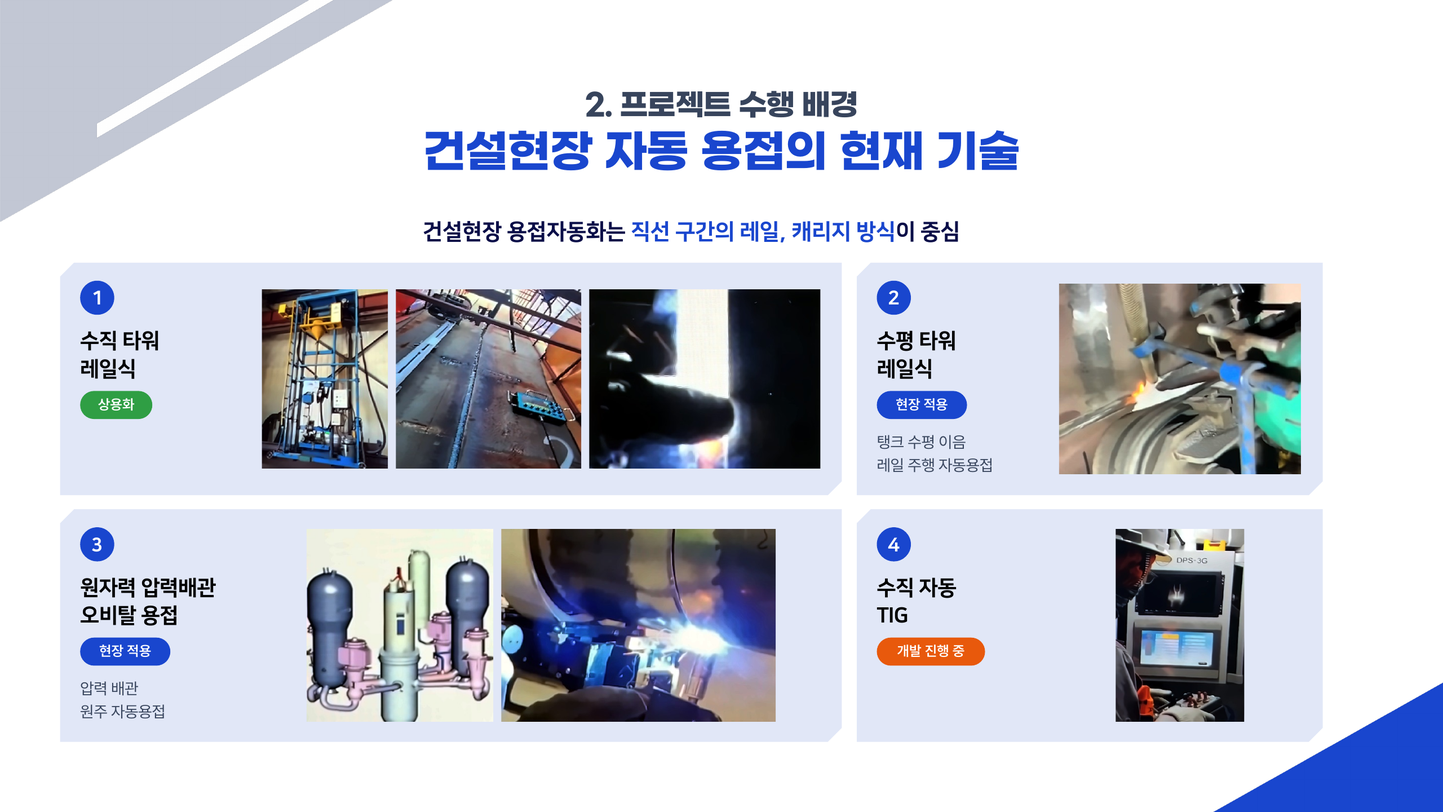
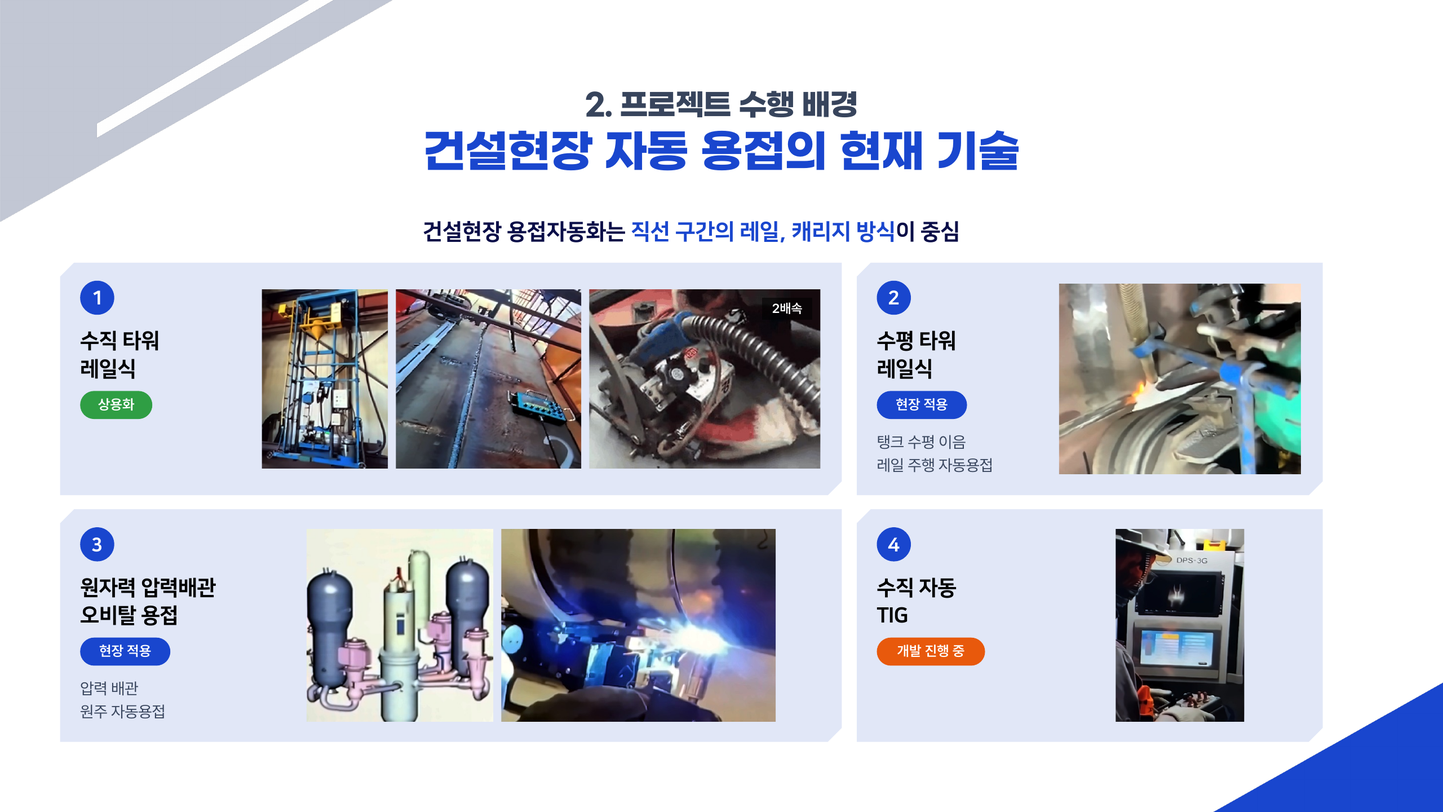
수행 배경 6, 8, 9장 사진 자리에 원본 영상(2배속 GIF) 올림
손태산 프로님 자료의 원본 영상 4개: 수직 타워 레일식 용접, 다층 용접 설명, 기존 VLA 연구, 건설현장 고소 용접.
PPT의 GIF 자리를 그대로 웹 겹쳐 올리기 위치로 씀.

Changed region(s): [[0.4062, 0.3438, 0.5938, 0.5938]]

diff --git a/index.html b/index.html
@@ -49,58 +49,75 @@
 </head>
 <body>
 <main class="stage" id="stage">
-  <img class="slide" src="deck/final/01.png?v=11131114" alt="2026 IRC 지능로봇대회 매니퓰레이터 종목. 거친 현장의 혁신. 숙련 용접사 패턴을 모사한 강구조물 용접 로봇. 팀 뉴트로 아크: 손태산, 김광빈, 김동희, 왕혜영">
-  <img class="slide" src="deck/final/02.png?v=11131114" alt="목차" loading="lazy">
-  <img class="slide" src="deck/final/03.png?v=11131114" alt="1. 프로젝트 개요. 숙련 용접사 패턴을 모사한 강구조물 용접 로봇. 왼쪽은 코너 시편의 용접선을 초록 레이저로 따라가는 로봇 사진" loading="lazy">
-  <img class="slide" src="deck/final/04.png?v=11131114" alt="2. 프로젝트 수행 배경: 정밀 특수공정 용접의 품질, 인력, 안전 위기. WPS 필수 제어 변수 20개 이상, 숙련 의존 정밀공정, 연령별 인력(20대 11만, 30대 27만, 40대 45만, 50대 65만, 60대 이상 46만), 용접사 평균 55세, 시공 부실과 안전 사고" loading="lazy">
-  <img class="slide" src="deck/final/05.png?v=11131114" alt="2. 프로젝트 수행 배경: 강재 적용 확대와 현장 용접 경쟁력. 고부가가치 강재 개발, 현장 용접과 시공성 확보, 적용 경쟁력 향상, 강재 적용시장 확대. 강교량 강주탑 단면도와 BOX, 강구조 건축 벽체 현장 용접 사진" loading="lazy">
-  <img class="slide" src="deck/final/06.png?v=11131114" alt="2. 프로젝트 수행 배경: 건설현장 자동 용접의 현재 기술. 수직 타워 레일식(상용화), 수평 타워 레일식(현장 적용), 원자력 압력배관 오비탈 용접(현장 적용), 수직 자동 TIG(개발 진행 중)" loading="lazy">
-  <img class="slide" src="deck/final/07.png?v=11131114" alt="2. 프로젝트 수행 배경: 센서 기반 적응형(Adaptive) 용접으로 발전. 레이저 센싱, 형상 측정, 경로 보정, 정밀 용접. 협동로봇과 레이저 센서, 레일식 수직 자동용접 현장 사진" loading="lazy">
-  <img class="slide" src="deck/final/08.png?v=11131114" alt="2. 프로젝트 수행 배경: 왜 Physical AI인가. 센서는 정밀하게 측정하고 Physical AI는 복합 상황을 판단. 한계는 두꺼운 다층 용접의 다음 패스 판단, 전체 상황 인식과 용접 구역 판단" loading="lazy">
-  <img class="slide" src="deck/final/09.png?v=11131114" alt="2. 프로젝트 수행 배경: Physical AI, 이제 건설현장으로. 기존 VLA 연구는 정형화된 실내 환경, 우리가 도전하는 건설현장은 비정형 강구조물 용접. 열악한 환경, 기술개발의 사각지대" loading="lazy">
-  <img class="slide" src="deck/final/10.png?v=11131114" alt="2. 프로젝트 수행 배경: 숙련 기술의 단절과 기존 자동용접의 한계. 실내 철골 제작공장 자동용접 사진, 강교량 야외 건설현장 사진" loading="lazy">
-  <img class="slide" src="deck/final/11.png?v=11131114" alt="3. 프로젝트 수행 필요성: 숙련 기술의 계승과 비정형 환경 대응을 위한 자율용접 기술의 필요성" loading="lazy">
+  <img class="slide" src="deck/final/01.png?v=11131124" alt="2026 IRC 지능로봇대회 매니퓰레이터 종목. 거친 현장의 혁신. 숙련 용접사 패턴을 모사한 강구조물 용접 로봇. 팀 뉴트로 아크: 손태산, 김광빈, 김동희, 왕혜영">
+  <img class="slide" src="deck/final/02.png?v=11131124" alt="목차" loading="lazy">
+  <img class="slide" src="deck/final/03.png?v=11131124" alt="1. 프로젝트 개요. 숙련 용접사 패턴을 모사한 강구조물 용접 로봇. 왼쪽은 코너 시편의 용접선을 초록 레이저로 따라가는 로봇 사진" loading="lazy">
+  <img class="slide" src="deck/final/04.png?v=11131124" alt="2. 프로젝트 수행 배경: 정밀 특수공정 용접의 품질, 인력, 안전 위기. WPS 필수 제어 변수 20개 이상, 숙련 의존 정밀공정, 연령별 인력(20대 11만, 30대 27만, 40대 45만, 50대 65만, 60대 이상 46만), 용접사 평균 55세, 시공 부실과 안전 사고" loading="lazy">
+  <img class="slide" src="deck/final/05.png?v=11131124" alt="2. 프로젝트 수행 배경: 강재 적용 확대와 현장 용접 경쟁력. 고부가가치 강재 개발, 현장 용접과 시공성 확보, 적용 경쟁력 향상, 강재 적용시장 확대. 강교량 강주탑 단면도와 BOX, 강구조 건축 벽체 현장 용접 사진" loading="lazy">
   <div class="slide">
-    <img src="deck/final/12.png?v=11131114" alt="4. 개발 목표 및 차별성: 룰 베이스를 넘어 숙련 행동 학습으로. OPTi3 용접로봇 전시 시연과 실제 아크 용접 영상, 기존 룰 베이스와 본 프로젝트 비교, 최종 개발 목표" loading="lazy">
-    <!-- PPT 12장 영상 자리(x 60/468, y 270, 392×294pt / 1440×810pt)에 맞춰 올린 6초~20초 구간 GIF -->
-    <img class="clip" style="left:4.1667%; top:33.333%; width:27.222%; height:36.296%;" src="deck/img/opti3_demo.gif?v=11131114" alt="OPTi3 전시 시연 6초에서 20초 구간" loading="lazy">
-    <img class="clip" style="left:32.5%; top:33.333%; width:27.222%; height:36.296%;" src="deck/img/opti3_arc.gif?v=11131114" alt="OPTi3 실제 아크 용접 6초에서 20초 구간" loading="lazy">
+    <img src="deck/final/06.png?v=11131124" alt="2. 프로젝트 수행 배경: 건설현장 자동 용접의 현재 기술. 수직 타워 레일식(상용화), 수평 타워 레일식(현장 적용), 원자력 압력배관 오비탈 용접(현장 적용), 수직 자동 TIG(개발 진행 중)" loading="lazy">
+    <!-- PPT 6장 사진 자리에 올린 원본 영상 2배속 GIF (fill_deck.py gif()가 기록한 자리, 1440×810pt 기준) -->
+    <img class="clip" style="left:40.8320%; top:35.6790%; width:16.0197%; height:21.9753%;" src="deck/img/bg_vrail.gif?v=11131124" alt="수직 타워 레일식 자동용접 영상, 2배속" loading="lazy">
+    <span class="tag" style="left:52.8239%; top:36.6667%; width:3.4722%; height:2.7160%;">2배속</span>
   </div>
-  <img class="slide" src="deck/final/13.png?v=11131114" alt="5. 개발 대상 및 자율 작업 시나리오: 수평 접합선에 대응하는 자율용접 작업 구현. 3면 직각 시편과 T형 필릿 시편" loading="lazy">
-  <img class="slide" src="deck/final/14.png?v=11131114" alt="6. 시스템 구성 및 하드웨어 설계: 자율용접 로봇 시스템 아키텍처. 영상은 V4L2로 캡처해 ZMQ로 나눠 주고, YOLO가 판 종류를 판정해 ACT 정책을 고르며 용접선 끝점을 표시함. 그 영상과 손목 영상으로 ACT 정책이 다음 동작을 냄. 손 검출 시 정지, 진행 표시와 영상은 FastAPI 웹 대시보드로" loading="lazy">
-  <img class="slide" src="deck/final/15.png?v=11131114" alt="6. 시스템 구성 및 하드웨어 설계: 역할을 나눈 세 가지 AI. YOLO 용접선 검출(판 종류 판정과 정책 선택, 끝점 표시), ACT 모방학습(포스코이앤씨 손태산 용접기술사가 텔레오퍼레이션으로 쌓은 용접 행동 데이터로 학습, 판 종류별 정책으로 제어), 손 검출 인터록(안전)" loading="lazy">
-  <img class="slide" src="deck/final/16.png?v=11131114" alt="6. 시스템 구성 및 하드웨어 설계: 하드웨어 설계. SolidWorks 조립 기반 6축 매니퓰레이터와 레이저 엔드이펙터 렌더, 엔드이펙터 CAD, 매니퓰레이터, 엔드이펙터, 카메라, 개선 내용" loading="lazy">
-  <img class="slide" src="deck/final/17.png?v=11131114" alt="6. 시스템 구성 및 하드웨어 설계: 직접 개선한 기술. 엔드이펙터 설계 변천 v1, v2, v3, 최종 레이저 일체형" loading="lazy">
+  <img class="slide" src="deck/final/07.png?v=11131124" alt="2. 프로젝트 수행 배경: 센서 기반 적응형(Adaptive) 용접으로 발전. 레이저 센싱, 형상 측정, 경로 보정, 정밀 용접. 협동로봇과 레이저 센서, 레일식 수직 자동용접 현장 사진" loading="lazy">
   <div class="slide">
-    <img src="deck/final/18.png?v=11131114" alt="7. 실시간 작업 모니터링: 웹 대시보드로 보는 영상과 로봇 상태" loading="lazy">
+    <img src="deck/final/08.png?v=11131124" alt="2. 프로젝트 수행 배경: 왜 Physical AI인가. 센서는 정밀하게 측정하고 Physical AI는 복합 상황을 판단. 한계는 두꺼운 다층 용접의 다음 패스 판단, 전체 상황 인식과 용접 구역 판단" loading="lazy">
+    <!-- PPT 8장 사진 자리에 올린 원본 영상 2배속 GIF (fill_deck.py gif()가 기록한 자리, 1440×810pt 기준) -->
+    <img class="clip" style="left:67.2222%; top:35.8025%; width:22.6389%; height:28.1481%;" src="deck/img/bg_multipass.gif?v=11131124" alt="두꺼운 판의 다층 용접 설명 영상, 비드를 층층이 쌓는 과정, 2배속" loading="lazy">
+    <span class="tag" style="left:85.8333%; top:36.7901%; width:3.4722%; height:2.7160%;">2배속</span>
+  </div>
+  <div class="slide">
+    <img src="deck/final/09.png?v=11131124" alt="2. 프로젝트 수행 배경: Physical AI, 이제 건설현장으로. 기존 VLA 연구는 정형화된 실내 환경, 우리가 도전하는 건설현장은 비정형 강구조물 용접. 열악한 환경, 기술개발의 사각지대" loading="lazy">
+    <!-- PPT 9장 사진 자리에 올린 원본 영상 2배속 GIF (fill_deck.py gif()가 기록한 자리, 1440×810pt 기준) -->
+    <img class="clip" style="left:7.6389%; top:39.2593%; width:36.1111%; height:27.1605%;" src="deck/img/bg_vla.gif?v=11131124" alt="기존 VLA 로봇 행동학습 연구 영상, 2배속" loading="lazy">
+    <img class="clip" style="left:69.4444%; top:39.2593%; width:20.2083%; height:41.4815%;" src="deck/img/bg_site.gif?v=11131124" alt="사다리 위에서 강구조물을 용접하는 건설현장 영상, 2배속" loading="lazy">
+    <span class="tag" style="left:39.7222%; top:40.2469%; width:3.4722%; height:2.7160%;">2배속</span>
+    <span class="tag" style="left:85.6250%; top:40.2469%; width:3.4722%; height:2.7160%;">2배속</span>
+  </div>
+  <img class="slide" src="deck/final/10.png?v=11131124" alt="2. 프로젝트 수행 배경: 숙련 기술의 단절과 기존 자동용접의 한계. 실내 철골 제작공장 자동용접 사진, 강교량 야외 건설현장 사진" loading="lazy">
+  <img class="slide" src="deck/final/11.png?v=11131124" alt="3. 프로젝트 수행 필요성: 숙련 기술의 계승과 비정형 환경 대응을 위한 자율용접 기술의 필요성" loading="lazy">
+  <div class="slide">
+    <img src="deck/final/12.png?v=11131124" alt="4. 개발 목표 및 차별성: 룰 베이스를 넘어 숙련 행동 학습으로. OPTi3 용접로봇 전시 시연과 실제 아크 용접 영상, 기존 룰 베이스와 본 프로젝트 비교, 최종 개발 목표" loading="lazy">
+    <!-- PPT 12장 영상 자리(x 60/468, y 270, 392×294pt / 1440×810pt)에 맞춰 올린 6초~20초 구간 GIF -->
+    <img class="clip" style="left:4.1667%; top:33.333%; width:27.222%; height:36.296%;" src="deck/img/opti3_demo.gif?v=11131124" alt="OPTi3 전시 시연 6초에서 20초 구간" loading="lazy">
+    <img class="clip" style="left:32.5%; top:33.333%; width:27.222%; height:36.296%;" src="deck/img/opti3_arc.gif?v=11131124" alt="OPTi3 실제 아크 용접 6초에서 20초 구간" loading="lazy">
+  </div>
+  <img class="slide" src="deck/final/13.png?v=11131124" alt="5. 개발 대상 및 자율 작업 시나리오: 수평 접합선에 대응하는 자율용접 작업 구현. 3면 직각 시편과 T형 필릿 시편" loading="lazy">
+  <img class="slide" src="deck/final/14.png?v=11131124" alt="6. 시스템 구성 및 하드웨어 설계: 자율용접 로봇 시스템 아키텍처. 영상은 V4L2로 캡처해 ZMQ로 나눠 주고, YOLO가 판 종류를 판정해 ACT 정책을 고르며 용접선 끝점을 표시함. 그 영상과 손목 영상으로 ACT 정책이 다음 동작을 냄. 손 검출 시 정지, 진행 표시와 영상은 FastAPI 웹 대시보드로" loading="lazy">
+  <img class="slide" src="deck/final/15.png?v=11131124" alt="6. 시스템 구성 및 하드웨어 설계: 역할을 나눈 세 가지 AI. YOLO 용접선 검출(판 종류 판정과 정책 선택, 끝점 표시), ACT 모방학습(포스코이앤씨 손태산 용접기술사가 텔레오퍼레이션으로 쌓은 용접 행동 데이터로 학습, 판 종류별 정책으로 제어), 손 검출 인터록(안전)" loading="lazy">
+  <img class="slide" src="deck/final/16.png?v=11131124" alt="6. 시스템 구성 및 하드웨어 설계: 하드웨어 설계. SolidWorks 조립 기반 6축 매니퓰레이터와 레이저 엔드이펙터 렌더, 엔드이펙터 CAD, 매니퓰레이터, 엔드이펙터, 카메라, 개선 내용" loading="lazy">
+  <img class="slide" src="deck/final/17.png?v=11131124" alt="6. 시스템 구성 및 하드웨어 설계: 직접 개선한 기술. 엔드이펙터 설계 변천 v1, v2, v3, 최종 레이저 일체형" loading="lazy">
+  <div class="slide">
+    <img src="deck/final/18.png?v=11131124" alt="7. 실시간 작업 모니터링: 웹 대시보드로 보는 영상과 로봇 상태" loading="lazy">
     <!-- PPT 18장 대시보드 카메라 칸에 올린 실제 화면 녹화 GIF(코너 시편, 3배속) -->
-    <img class="clip" style="left:4.7222%; top:35.0617%; width:25.9722%; height:25.9259%;" src="deck/img/corner_dash_top.gif?v=11131114" alt="상단 카메라 실제 화면. 코너 시편 용접선 두 개가 파란색에서 빨간색으로 바뀜, 3배속" loading="lazy">
-    <img class="clip" style="left:31.8056%; top:35.0617%; width:25.9722%; height:25.9259%;" src="deck/img/corner_dash_wrist.gif?v=11131114" alt="손목 카메라 실제 화면. 시편 위 초록 레이저 점, 3배속" loading="lazy">
+    <img class="clip" style="left:4.7222%; top:35.0617%; width:25.9722%; height:25.9259%;" src="deck/img/corner_dash_top.gif?v=11131124" alt="상단 카메라 실제 화면. 코너 시편 용접선 두 개가 파란색에서 빨간색으로 바뀜, 3배속" loading="lazy">
+    <img class="clip" style="left:31.8056%; top:35.0617%; width:25.9722%; height:25.9259%;" src="deck/img/corner_dash_wrist.gif?v=11131124" alt="손목 카메라 실제 화면. 시편 위 초록 레이저 점, 3배속" loading="lazy">
     <span class="camlabel" style="left:4.7222%; top:57.5309%; width:25.9722%; height:3.4568%;">상단 카메라<b>LIVE</b></span>
     <span class="camlabel" style="left:31.8056%; top:57.5309%; width:25.9722%; height:3.4568%;">손목 카메라<b>LIVE</b></span>
     <span class="tag" style="left:26.6667%; top:36.0494%; width:3.4722%; height:2.7160%;">3배속</span>
     <span class="tag" style="left:53.7500%; top:36.0494%; width:3.4722%; height:2.7160%;">3배속</span>
   </div>
   <div class="slide">
-    <img src="deck/final/19.png?v=11131114" alt="7. 실시간 작업 모니터링: YOLO 용접선 검출과 진행 표시, 성공 판정 기준" loading="lazy">
+    <img src="deck/final/19.png?v=11131124" alt="7. 실시간 작업 모니터링: YOLO 용접선 검출과 진행 표시, 성공 판정 기준" loading="lazy">
     <!-- PPT 19장 가운데 칸(진행 중)에 올린 2배속 GIF -->
-    <img class="clip" style="left:34.0278%; top:28.1481%; width:27.7778%; height:37.0370%;" src="deck/img/t_yolo_progress.gif?v=11131114" alt="T자 시편 상단 카메라 화면. 레이저가 지나간 구간의 용접선이 파란색에서 빨간색으로 바뀜, 2배속" loading="lazy">
+    <img class="clip" style="left:34.0278%; top:28.1481%; width:27.7778%; height:37.0370%;" src="deck/img/t_yolo_progress.gif?v=11131124" alt="T자 시편 상단 카메라 화면. 레이저가 지나간 구간의 용접선이 파란색에서 빨간색으로 바뀜, 2배속" loading="lazy">
     <span class="tag" style="left:57.7778%; top:29.1358%; width:3.4722%; height:2.7160%;">2배속</span>
   </div>
-  <img class="slide" src="deck/final/20.png?v=11131114" alt="7. 실시간 작업 모니터링: YOLO 추론 최적화로 2.1배 가속. PyTorch에서 ONNX, TensorRT FP16 변환, 1회 추론 시간 중앙값 8.1 ms에서 3.8 ms, 정확도 유지, ACT 정책 변환 예정" loading="lazy">
-  <img class="slide" src="deck/final/21.png?v=11131114" alt="8. ACT 기반 모방학습 및 자율 제어: 용접기술사의 텔레오퍼레이션에서 자율 실행까지. 포스코이앤씨 손태산 용접기술사가 텔레오퍼레이션으로 직접 쌓은 용접 행동 데이터로 학습. 텔레오퍼레이션, 기록, 판 종류별 ACT 학습, 자율 실행. ACT는 동작을 묶음으로 예측" loading="lazy">
+  <img class="slide" src="deck/final/20.png?v=11131124" alt="7. 실시간 작업 모니터링: YOLO 추론 최적화로 2.1배 가속. PyTorch에서 ONNX, TensorRT FP16 변환, 1회 추론 시간 중앙값 8.1 ms에서 3.8 ms, 정확도 유지, ACT 정책 변환 예정" loading="lazy">
+  <img class="slide" src="deck/final/21.png?v=11131124" alt="8. ACT 기반 모방학습 및 자율 제어: 용접기술사의 텔레오퍼레이션에서 자율 실행까지. 포스코이앤씨 손태산 용접기술사가 텔레오퍼레이션으로 직접 쌓은 용접 행동 데이터로 학습. 텔레오퍼레이션, 기록, 판 종류별 ACT 학습, 자율 실행. ACT는 동작을 묶음으로 예측" loading="lazy">
   <div class="slide">
-    <img src="deck/final/22.png?v=11131114" alt="9. 자율 용접 시연: 임의 배치 시편 자율용접 시연. T자 필릿 시편과 3면 직각 코너 시편 영상(2배속), 시연 확인 항목 8개" loading="lazy">
+    <img src="deck/final/22.png?v=11131124" alt="9. 자율 용접 시연: 임의 배치 시편 자율용접 시연. T자 필릿 시편과 3면 직각 코너 시편 영상(2배속), 시연 확인 항목 8개" loading="lazy">
     <!-- PPT 22장 시연 영상 자리(1440×810pt 기준)에 올린 2배속 GIF와 배속 표시 -->
-    <img class="clip" style="left:4.7455%; top:29.8765%; width:29.8379%; height:55.4321%;" src="deck/img/t_demo.gif?v=11131114" alt="T자 필릿 시편 자율용접 시연, 2배속" loading="lazy">
-    <img class="clip" style="left:36.2500%; top:29.8765%; width:29.8379%; height:55.4321%;" src="deck/img/corner_demo.gif?v=11131114" alt="3면 직각 코너 시편 자율용접 시연, 2배속" loading="lazy">
+    <img class="clip" style="left:4.7455%; top:29.8765%; width:29.8379%; height:55.4321%;" src="deck/img/t_demo.gif?v=11131124" alt="T자 필릿 시편 자율용접 시연, 2배속" loading="lazy">
+    <img class="clip" style="left:36.2500%; top:29.8765%; width:29.8379%; height:55.4321%;" src="deck/img/corner_demo.gif?v=11131124" alt="3면 직각 코너 시편 자율용접 시연, 2배속" loading="lazy">
     <span class="tag" style="left:30.5556%; top:30.8642%; width:3.4722%; height:2.7160%;">2배속</span>
     <span class="tag" style="left:62.0601%; top:30.8642%; width:3.4722%; height:2.7160%;">2배속</span>
   </div>
-  <img class="slide" src="deck/final/23.png?v=11131114" alt="9. 자율 용접 시연: 성공 판정 기준. 시편 인식, 시작점 접근, 토치 거리 유지, 레이저 ON, 용접선 추종, 종료점 도달, 레이저 OFF, 원위치 복귀의 8개 항목을 모두 통과해야 성공. 용접선 추종은 경로 이탈 5mm 이하와 용접선의 90% 이상이 빨간색으로 바뀌는 것" loading="lazy">
-  <img class="slide" src="deck/final/24.png?v=11131114" alt="9. 자율 용접 시연: 시연 결과. 학습한 배치 40회 중 39회(97.5%), 처음 보는 배치 40회 중 37회(92.5%) 성공. 성공 기준은 8개 판정 항목을 모두 통과한 시도. 인터록 반응 시간 최대 약 100 ms(계산값)" loading="lazy">
-  <img class="slide" src="deck/final/25.png?v=11131114" alt="10. 결론 및 향후 과제" loading="lazy">
-  <img class="slide" src="deck/final/26.png?v=11131114" alt="10. 결론 및 향후 과제: 한계점과 향후 과제, 홈페이지 QR 코드" loading="lazy">
+  <img class="slide" src="deck/final/23.png?v=11131124" alt="9. 자율 용접 시연: 성공 판정 기준. 시편 인식, 시작점 접근, 토치 거리 유지, 레이저 ON, 용접선 추종, 종료점 도달, 레이저 OFF, 원위치 복귀의 8개 항목을 모두 통과해야 성공. 용접선 추종은 경로 이탈 5mm 이하와 용접선의 90% 이상이 빨간색으로 바뀌는 것" loading="lazy">
+  <img class="slide" src="deck/final/24.png?v=11131124" alt="9. 자율 용접 시연: 시연 결과. 학습한 배치 40회 중 39회(97.5%), 처음 보는 배치 40회 중 37회(92.5%) 성공. 성공 기준은 8개 판정 항목을 모두 통과한 시도. 인터록 반응 시간 최대 약 100 ms(계산값)" loading="lazy">
+  <img class="slide" src="deck/final/25.png?v=11131124" alt="10. 결론 및 향후 과제" loading="lazy">
+  <img class="slide" src="deck/final/26.png?v=11131124" alt="10. 결론 및 향후 과제: 한계점과 향후 과제, 홈페이지 QR 코드" loading="lazy">
 </main>
 
 <div class="bar">

diff --git a/project.html b/project.html
@@ -102,7 +102,7 @@
   <h2><small>01</small>무엇을 만들었나</h2>
   <div class="two">
     <figure>
-      <img class="tall" src="project/img/robot_corner_laser.jpg?v=11131114" alt="자체 제작 6축 로봇이 코너 시편의 용접선을 초록 레이저로 따라가는 장면" loading="lazy">
+      <img class="tall" src="project/img/robot_corner_laser.jpg?v=11131124" alt="자체 제작 6축 로봇이 코너 시편의 용접선을 초록 레이저로 따라가는 장면" loading="lazy">
       <figcaption>코너 시편의 용접선을 레이저로 따라가는 자체 제작 6축 로봇</figcaption>
     </figure>
     <div>
@@ -126,7 +126,7 @@
 <section id="system">
   <h2><small>02</small>시스템 구성</h2>
   <figure>
-    <img src="project/img/architecture.png?v=11131114" alt="시스템 구성도. 카메라 영상은 V4L2로 캡처해 ZMQ로 나눠 줌. YOLO가 판 종류를 판정해 ACT 정책을 고르고 용접선 끝점을 표시하며, 그 영상과 손목 카메라 영상이 ACT 정책으로 들어감. 정책의 목표 관절값이 서보 제어를 거쳐 6축 매니퓰레이터와 엔드이펙터로 전달됨. 손 검출 시 정지, 진행 표시와 영상은 FastAPI 웹 대시보드로 전송" loading="lazy">
+    <img src="project/img/architecture.png?v=11131124" alt="시스템 구성도. 카메라 영상은 V4L2로 캡처해 ZMQ로 나눠 줌. YOLO가 판 종류를 판정해 ACT 정책을 고르고 용접선 끝점을 표시하며, 그 영상과 손목 카메라 영상이 ACT 정책으로 들어감. 정책의 목표 관절값이 서보 제어를 거쳐 6축 매니퓰레이터와 엔드이펙터로 전달됨. 손 검출 시 정지, 진행 표시와 영상은 FastAPI 웹 대시보드로 전송" loading="lazy">
   </figure>
   <ul class="plain">
     <li>카메라 2대(상단, 손목) 영상을 V4L2로 직접 캡처해 ZMQ로 여러 프로세스에 나눠 줍니다.</li>
@@ -157,7 +157,7 @@
   <h3>엔드이펙터 출력 파일</h3>
   <div class="two">
     <figure>
-      <img src="project/img/ee_cad.png?v=11131114" alt="최종 레이저 일체형 엔드이펙터 CAD. 서보와 본체, 레이저 포인터를 잡는 집게와 브래킷" loading="lazy">
+      <img src="project/img/ee_cad.png?v=11131124" alt="최종 레이저 일체형 엔드이펙터 CAD. 서보와 본체, 레이저 포인터를 잡는 집게와 브래킷" loading="lazy">
       <figcaption>최종 레이저 일체형 엔드이펙터</figcaption>
     </figure>
     <div>
@@ -181,7 +181,7 @@
   <h2><small>04</small>엔드이펙터 개선 과정</h2>
   <div class="two">
     <figure>
-      <img src="project/img/ee_torch_old.jpg?v=11131114" alt="1차 설계인 OPTi3 축소 토치형 엔드이펙터 CAD. 토치 옆에 레이저와 서보가 달려 있음" loading="lazy">
+      <img src="project/img/ee_torch_old.jpg?v=11131124" alt="1차 설계인 OPTi3 축소 토치형 엔드이펙터 CAD. 토치 옆에 레이저와 서보가 달려 있음" loading="lazy">
       <figcaption>1차 설계: OPTi3 축소 토치형 (토치 단축, 레이저 후퇴 적용 후)</figcaption>
     </figure>
     <div>
@@ -262,26 +262,26 @@
   <p class="lead">임의로 놓은 시편을 로봇이 스스로 찾아 용접선을 따라가는 장면입니다. 휴대폰으로 찍은 영상을 2배속 GIF로 줄였습니다.</p>
   <div class="two">
     <figure>
-      <img src="deck/img/t_demo.gif?v=11131114" alt="T자 필릿 시편 자율용접 시연. 로봇이 일어나 시편에 다가가 초록 레이저로 용접선을 따라감, 2배속" loading="lazy">
+      <img src="deck/img/t_demo.gif?v=11131124" alt="T자 필릿 시편 자율용접 시연. 로봇이 일어나 시편에 다가가 초록 레이저로 용접선을 따라감, 2배속" loading="lazy">
       <figcaption>T자 필릿 시편 (2배속)</figcaption>
     </figure>
     <figure>
-      <img src="deck/img/corner_demo.gif?v=11131114" alt="3면 직각 코너 시편 자율용접 시연. 코너 안쪽 용접선을 초록 레이저로 따라감, 2배속" loading="lazy">
+      <img src="deck/img/corner_demo.gif?v=11131124" alt="3면 직각 코너 시편 자율용접 시연. 코너 안쪽 용접선을 초록 레이저로 따라감, 2배속" loading="lazy">
       <figcaption>3면 직각 코너 시편 (2배속)</figcaption>
     </figure>
   </div>
   <h3>YOLO 용접선 진행 표시 (실제 상단 카메라 화면)</h3>
   <div class="three">
     <figure>
-      <img src="project/img/yolo_before.png?v=11131114" alt="용접 전. 검출된 용접선 전체가 파란색" loading="lazy">
+      <img src="project/img/yolo_before.png?v=11131124" alt="용접 전. 검출된 용접선 전체가 파란색" loading="lazy">
       <figcaption>용접 전: 검출된 용접선 전체가 파란색</figcaption>
     </figure>
     <figure>
-      <img src="deck/img/t_yolo_progress.gif?v=11131114" alt="진행 중. 레이저가 지나간 구간만 빨간색으로 바뀜, 2배속" loading="lazy">
+      <img src="deck/img/t_yolo_progress.gif?v=11131124" alt="진행 중. 레이저가 지나간 구간만 빨간색으로 바뀜, 2배속" loading="lazy">
       <figcaption>진행 중: 레이저가 지나간 구간만 빨간색 (2배속)</figcaption>
     </figure>
     <figure>
-      <img src="project/img/yolo_done.png?v=11131114" alt="완료. 용접선 전 구간이 빨간색" loading="lazy">
+      <img src="project/img/yolo_done.png?v=11131124" alt="완료. 용접선 전 구간이 빨간색" loading="lazy">
       <figcaption>완료: 용접선 전 구간이 빨간색</figcaption>
     </figure>
   </div>
